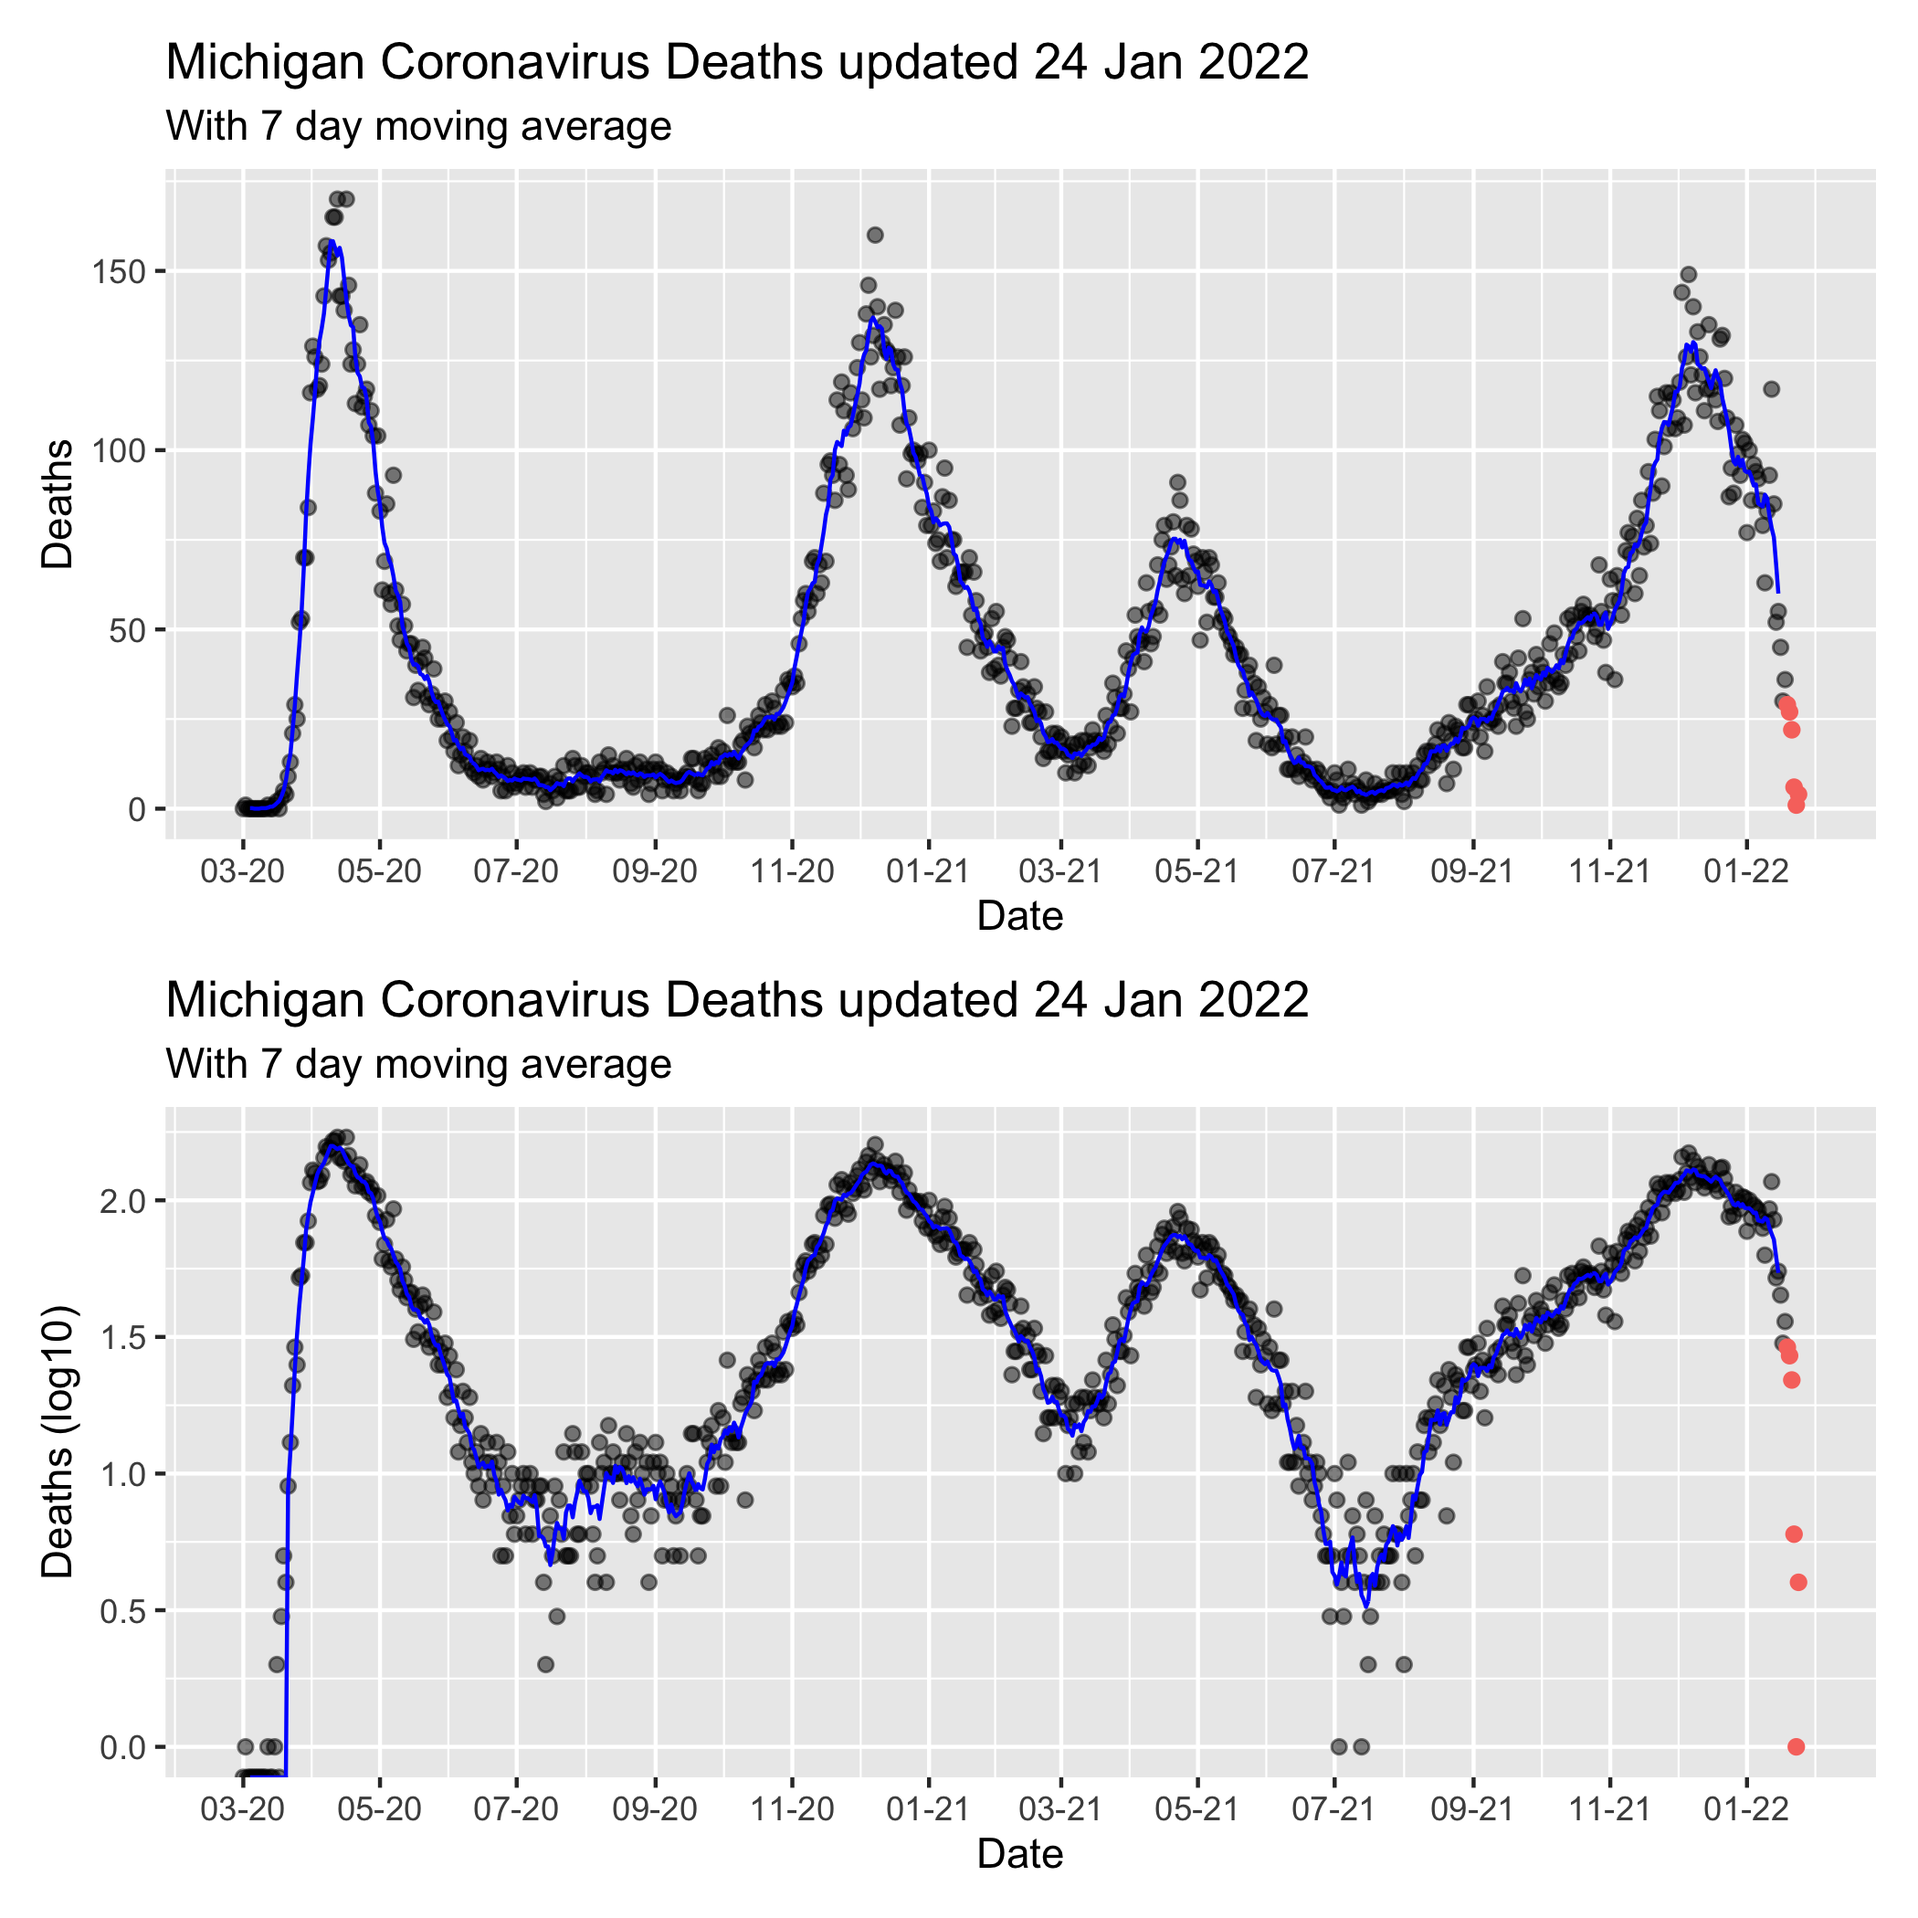
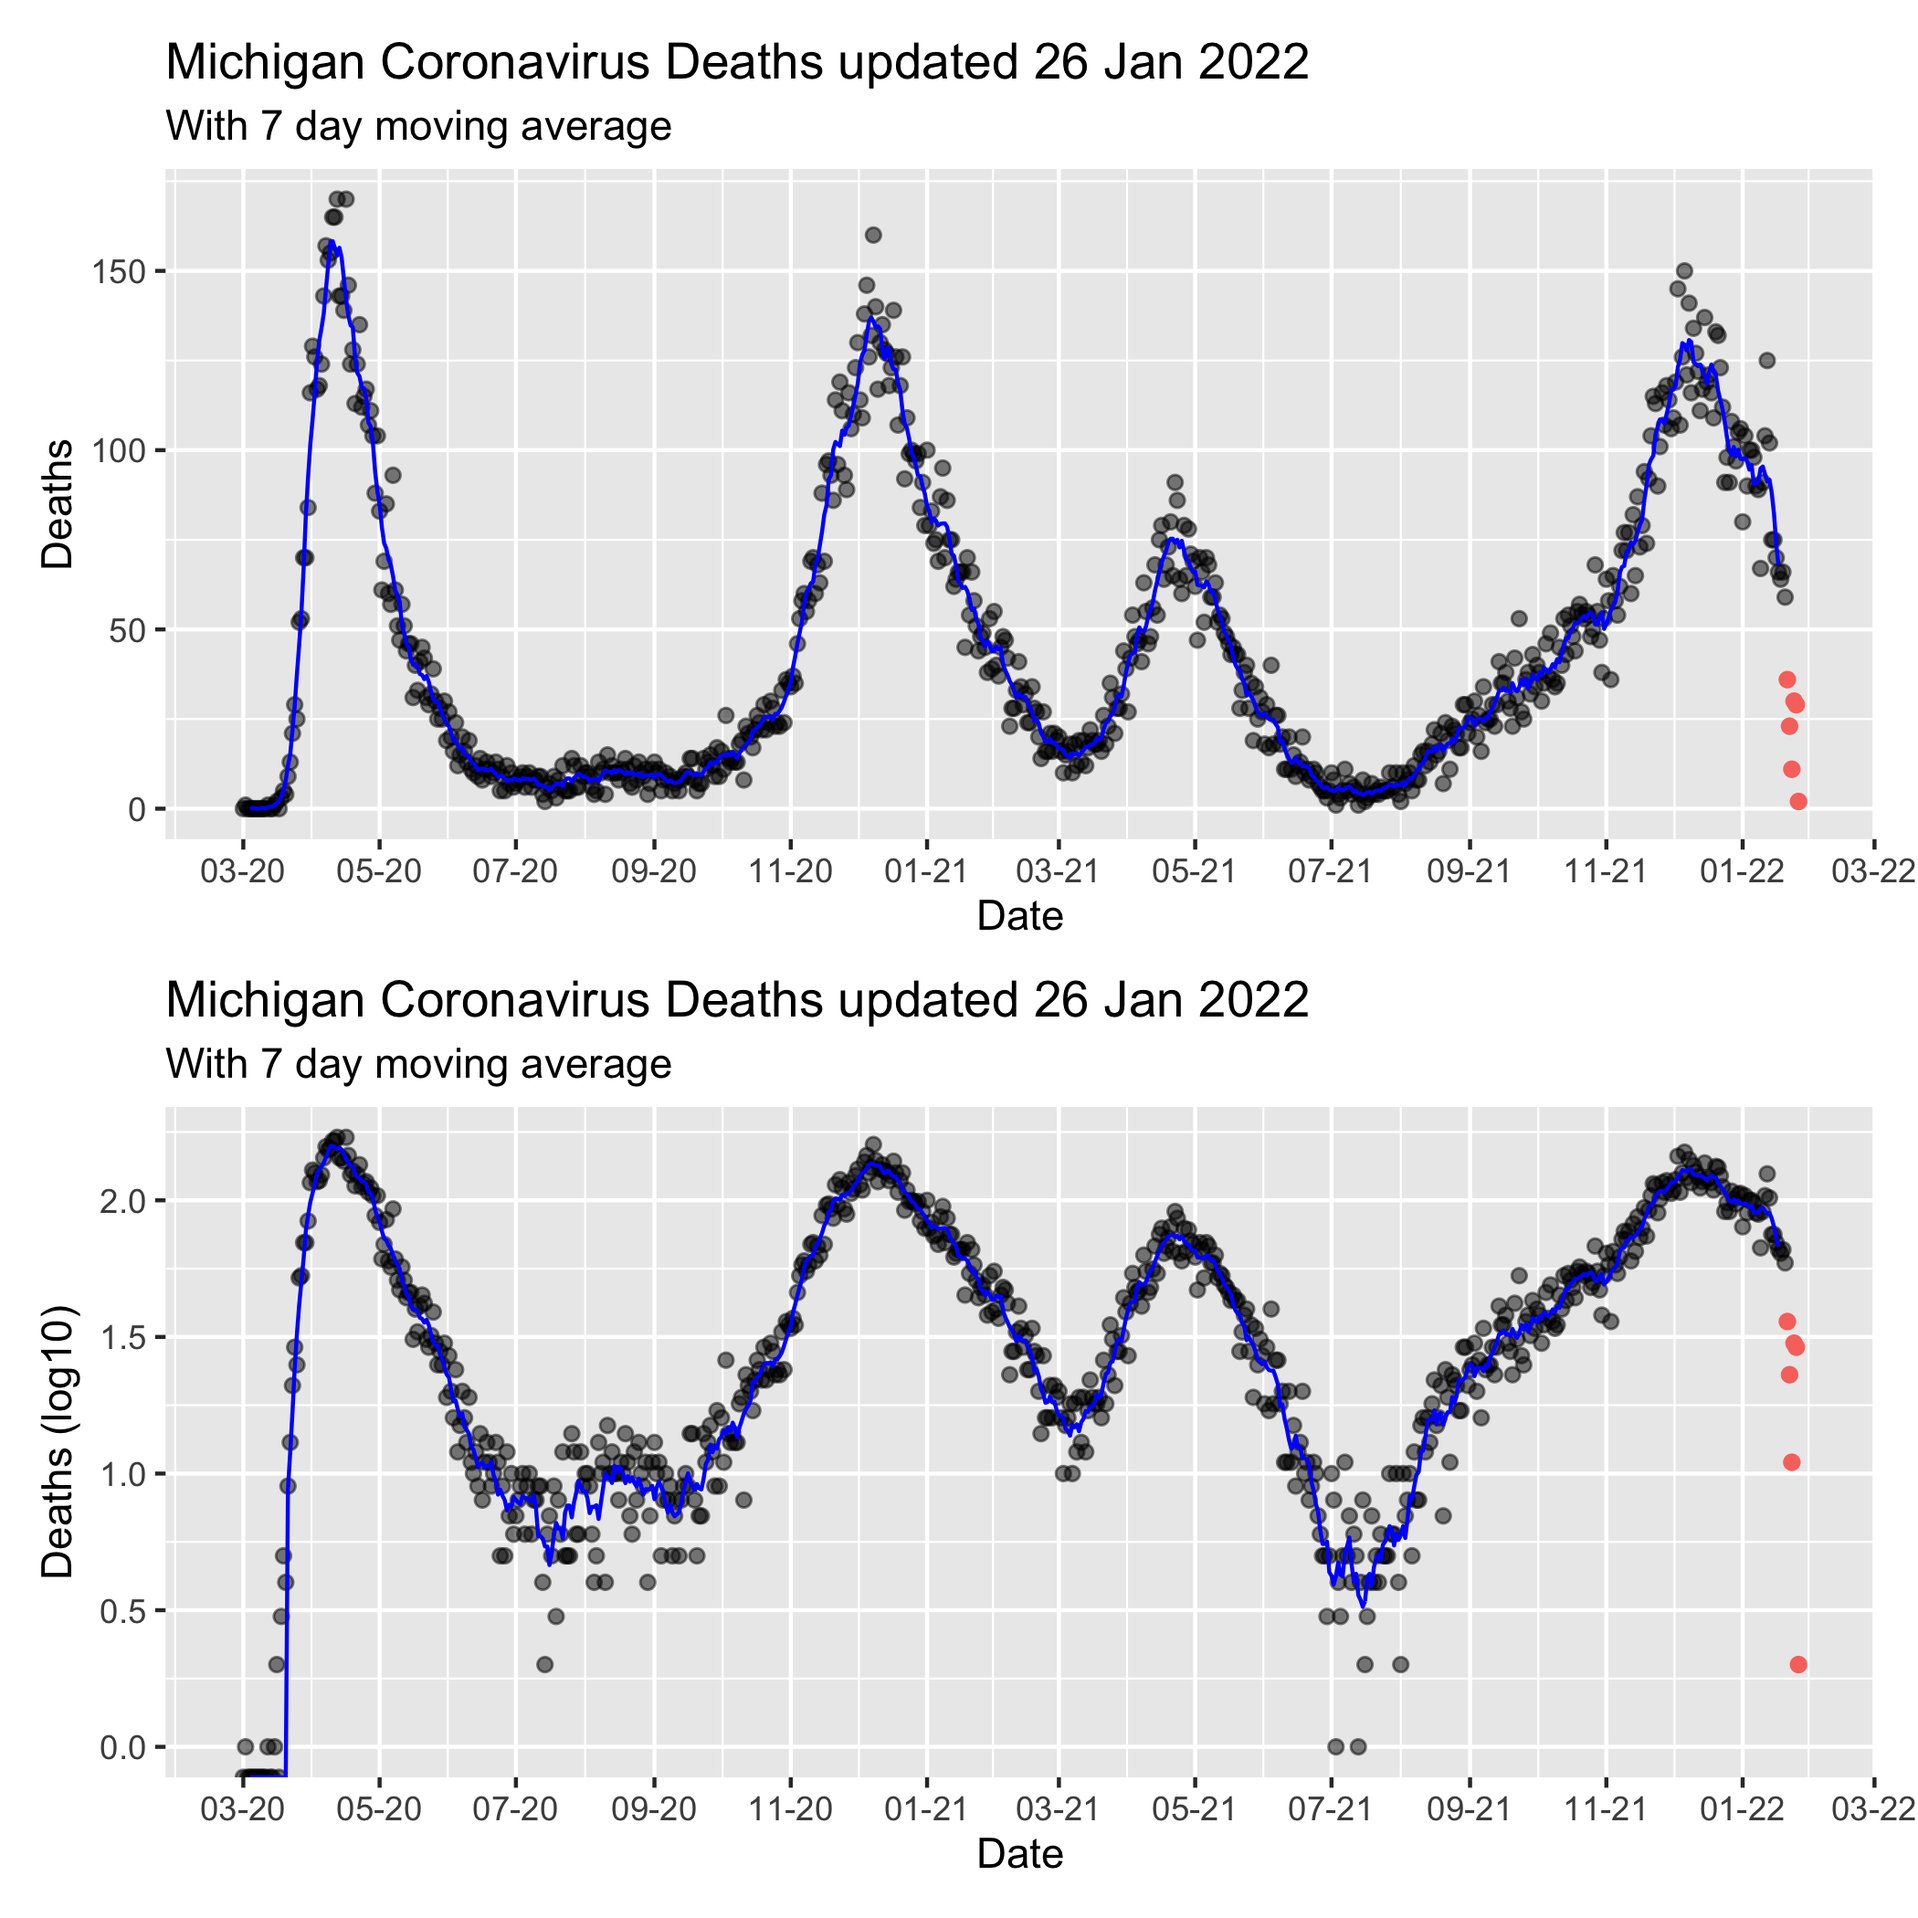
Jan-27 2022 12:05 update

diff --git a/MiCorona.md b/MiCorona.md
@@ -1,7 +1,7 @@
 Michigan COVID Data
 ================
 Adam D. DenHaan
-Jan 25, 2022
+Jan 27, 2022
 
 Get link for data:
 
@@ -48,11 +48,11 @@ mi_data.head()
     ## 4  Alcona 2020-03-05   Confirmed    0.0     0.0               0.0   
     ## 
     ##    Deaths.Cumulative                       Updated  
-    ## 0                0.0 2022-01-24 13:48:32.909799936  
-    ## 1                0.0 2022-01-24 13:48:32.909799936  
-    ## 2                0.0 2022-01-24 13:48:32.909799936  
-    ## 3                0.0 2022-01-24 13:48:32.909799936  
-    ## 4                0.0 2022-01-24 13:48:32.909799936
+    ## 0                0.0 2022-01-26 13:42:30.287300096  
+    ## 1                0.0 2022-01-26 13:42:30.287300096  
+    ## 2                0.0 2022-01-26 13:42:30.287300096  
+    ## 3                0.0 2022-01-26 13:42:30.287300096  
+    ## 4                0.0 2022-01-26 13:42:30.287300096
 
 ``` python
 max_date = max(mi_data["Updated"])
